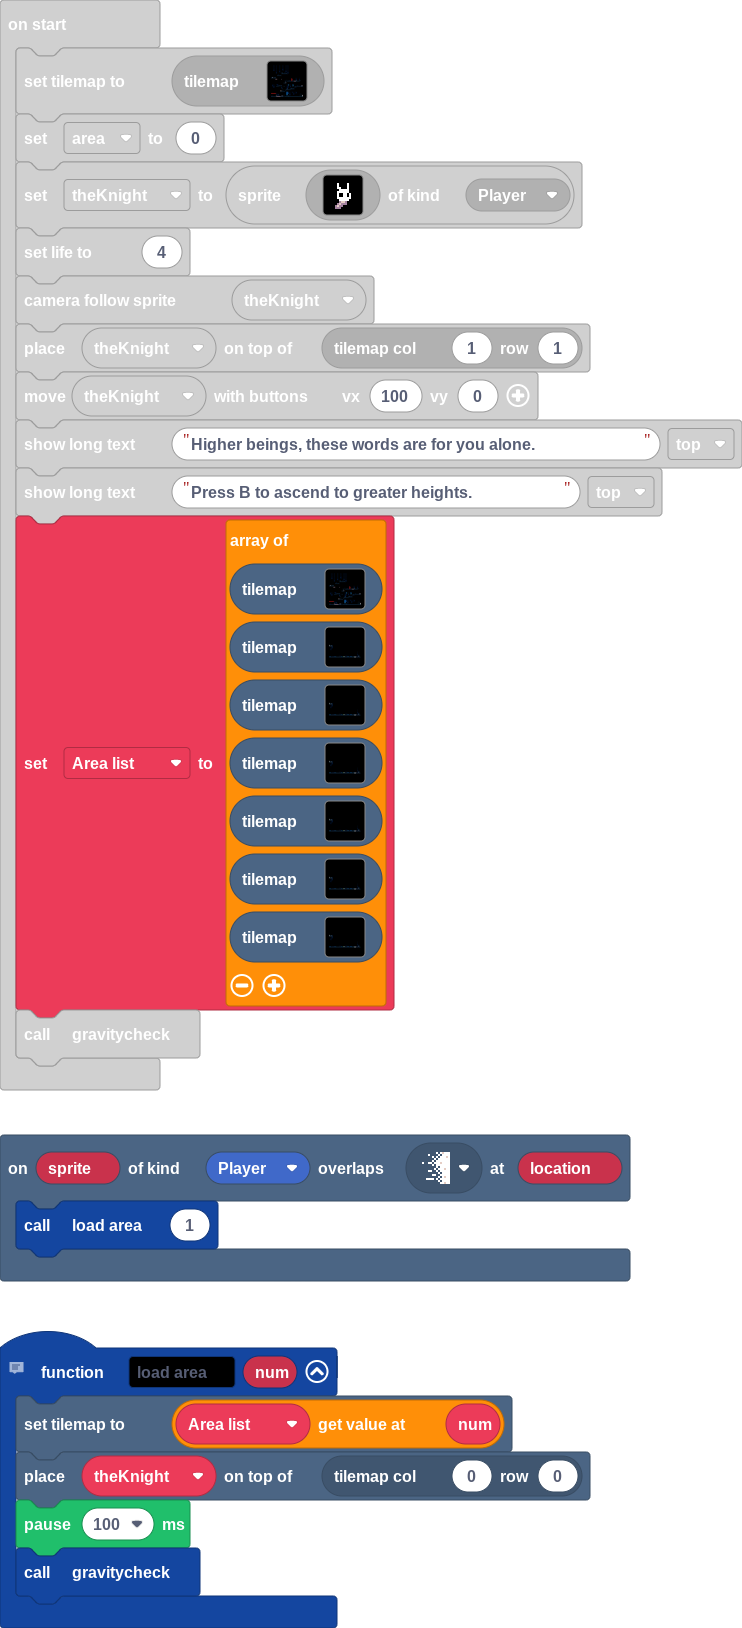
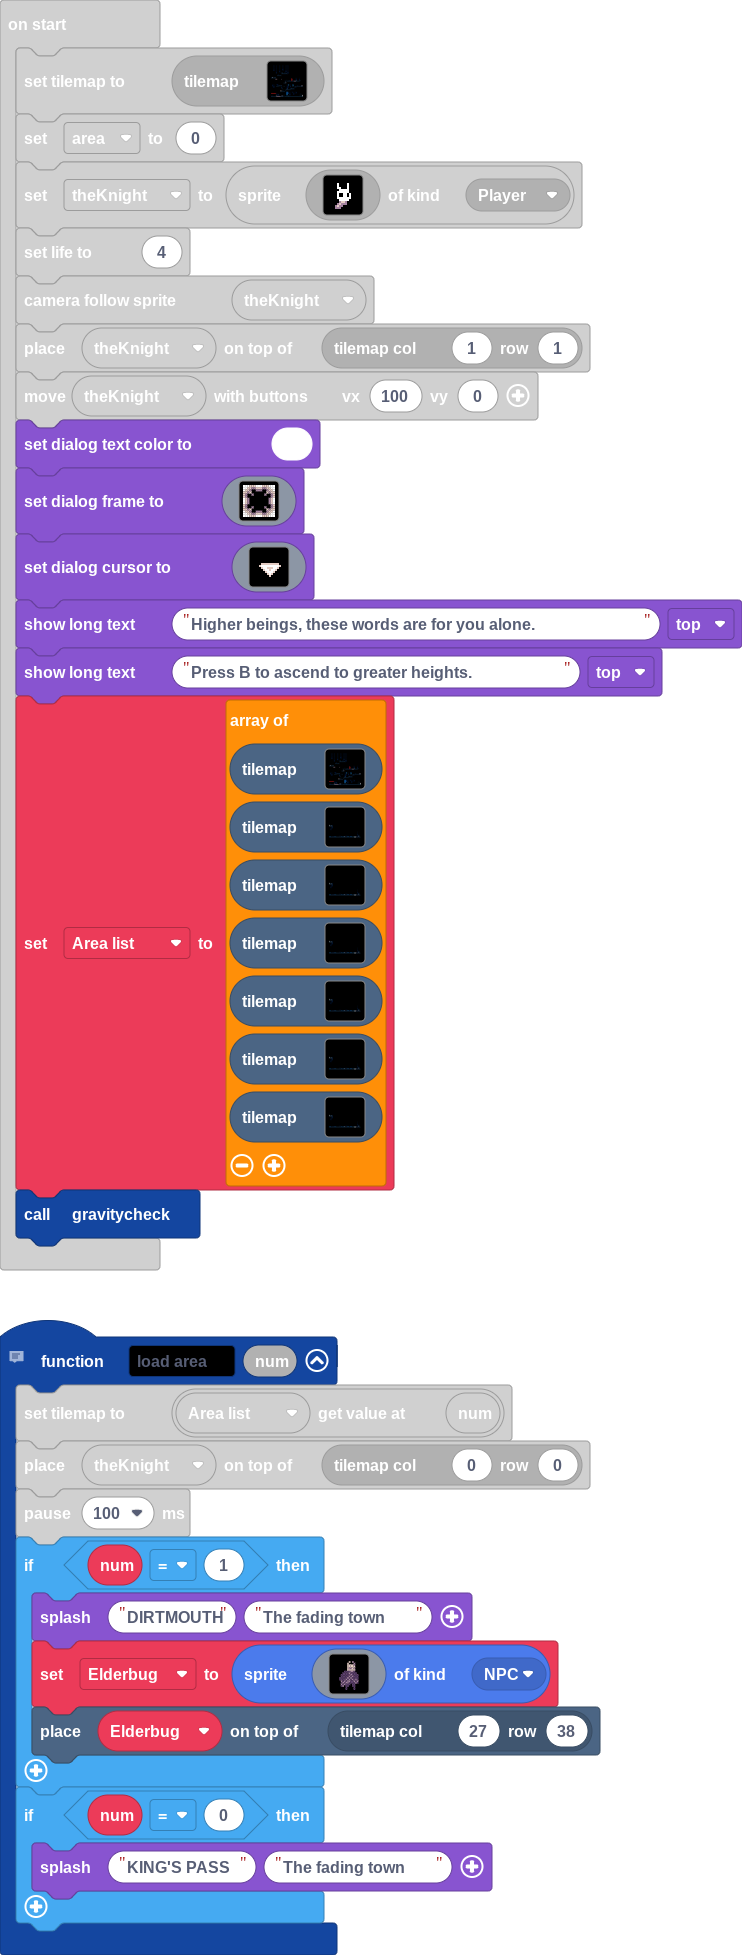
added elderbug and cool new textbox graphic

diff --git a/tilemap.g.ts b/tilemap.g.ts
@@ -187,49 +187,6 @@ namespace myTiles {
 . . . . . . . . . . . . . . . . 
 . . . . . . . . . . . . . . . . 
 `, [myTiles.transparency16], TileScale.Sixteen);
-            case "dirtmouth1":
[1 lines of base64/hex data omitted]
-............................................................
-............................................................
-............................................................
-............................................................
-............................................................
-............................................................
-............................................................
-............................................................
-............................................................
-............................................................
-............................................................
-............................................................
-............................................................
-............................................................
-............................................................
-............................................................
-............................................................
-............................................................
-............................................................
-2222222....................................................2
-2222222..................................................222
-22222...................................................2222
-222....................................................22222
-2.....................................................222222
-2.....................................................222222
-.....................................................2222222
-.....................................................2222222
-.....................................................2222222
-.....................................................2222222
-......................................................222222
-......................................................222222
-......................................................222222
-.......................................................22222
-.......................................................22222
-.......................................................22222
-........................................................2222
-........................................................2222
-.........................................................222
-..........................................................22
-222222222222222222222222222222222222222222222222..2222222222
-`, [myTiles.transparency16,myTiles.tile4,myTiles.tile5,myTiles.tile6,myTiles.tile9,myTiles.tile10,myTiles.tile11,myTiles.tile12,myTiles.tile15,myTiles.tile18,myTiles.tile22,myTiles.tile24,myTiles.tile28,myTiles.tile29,myTiles.tile30,myTiles.tile31,myTiles.tile32,myTiles.tile33,myTiles.tile34,myTiles.tile8,myTiles.tile17,myTiles.tile14,myTiles.tile23,myTiles.tile35,myTiles.tile36], TileScale.Sixteen);
             case "level5":
             case "level5":return tiles.createTilemap(hex`1000100000000000000000000000000000000000000000000000000000000000000000000000000000000000000000000000000000000000000000000000000000000000000000000000000000000000000000000000000000000000000000000000000000000000000000000000000000000000000000000000000000000000000000000000000000000000000000000000000000000000000000000000000000000000000000000000000000000000000000000000000000000000000000000000000000000000000000000000000000000000000000000000000000000000000000000000000000000000000000000000000000000000000000000000000000000000`, img`
 . . . . . . . . . . . . . . . . 
@@ -344,6 +301,49 @@ namespace myTiles {
 . . . . . . . . . . . . . . . . 
 . . . . . . . . . . . . . . . . 
 `, [myTiles.transparency16], TileScale.Sixteen);
+            case "dirtmouth1":
[1 lines of base64/hex data omitted]
+............................................................
+............................................................
+............................................................
+............................................................
+............................................................
+............................................................
+............................................................
+............................................................
+............................................................
+............................................................
+............................................................
+............................................................
+............................................................
+............................................................
+............................................................
+............................................................
+............................................................
+............................................................
+............................................................
+2222222....................................................2
+2222222..................................................222
+22222...................................................2222
+222....................................................22222
+2.....................................................222222
+2.....................................................222222
+.....................................................2222222
+.....................................................2222222
+.....................................................2222222
+.....................................................2222222
+......................................................222222
+......................................................222222
+......................................................222222
+.......................................................22222
+.......................................................22222
+.......................................................22222
+........................................................2222
+........................................................2222
+.........................................................222
+..........................................................22
+222222222222222222222222222222222222222222222222..2222222222
+`, [myTiles.transparency16,myTiles.tile4,myTiles.tile5,myTiles.tile6,myTiles.tile9,myTiles.tile10,myTiles.tile11,myTiles.tile12,myTiles.tile15,myTiles.tile18,myTiles.tile22,myTiles.tile24,myTiles.tile29,myTiles.tile30,myTiles.tile31,myTiles.tile32,myTiles.tile33,myTiles.tile34,myTiles.tile8,myTiles.tile17,myTiles.tile14,myTiles.tile23,myTiles.tile35,myTiles.tile36], TileScale.Sixteen);
         }
         return null;
     })

diff --git a/main.ts b/main.ts
@@ -1,5 +1,6 @@
 namespace SpriteKind {
     export const player_attack = SpriteKind.create()
+    export const NPC = SpriteKind.create()
 }
 scene.onOverlapTile(SpriteKind.Player, assets.tile`light2`, function (sprite, location) {
     load_area(1)
@@ -29,6 +30,14 @@ function load_area (num: number) {
     tiles.setCurrentTilemap(Area_list[num])
     tiles.placeOnTile(theKnight, tiles.getTileLocation(0, 0))
     pause(100)
+    if (num == 1) {
+        game.splash("DIRTMOUTH", "The fading town")
+        Elderbug = sprites.create(assets.image`elderbug`, SpriteKind.NPC)
+        tiles.placeOnTile(Elderbug, tiles.getTileLocation(27, 38))
+    }
+    if (num == 0) {
+        game.splash("KING'S PASS")
+    }
 }
 // Nail slash.
 controller.A.onEvent(ControllerButtonEvent.Pressed, function () {
@@ -185,6 +194,7 @@ let Crawlid: Sprite = null
 let FX: Sprite = null
 let vengefulspirit: Sprite = null
 let player_NailSlash: Sprite = null
+let Elderbug: Sprite = null
 let nail_direction = 0
 let Area_list: tiles.TileMapData[] = []
 let theKnight: Sprite = null
@@ -195,6 +205,25 @@ info.setLife(4)
 scene.cameraFollowSprite(theKnight)
 tiles.placeOnTile(theKnight, tiles.getTileLocation(1, 1))
 controller.moveSprite(theKnight, 100, 0)
+game.setDialogTextColor(1)
+game.setDialogFrame(img`
+    1 1 1 d d d 1 1 1 d d d 1 1 1 
+    1 1 d d b b d d d b b d d 1 1 
+    1 d d b . . b b b . . b d d 1 
+    d d b d . . . . . . . d b d d 
+    d b . . b . . . . . b . . b d 
+    d b . . . . . . . . . . . b d 
+    1 d b . . . . . . . . . b d 1 
+    1 d b . . . . . . . . . b d 1 
+    1 d b . . . . . . . . . b d 1 
+    d b . . . . . . . . . . . b d 
+    d b . . b . . . . . b . . b d 
+    d d b d . . . . . . . d b d d 
+    1 d d b . . b b b . . b d d 1 
+    1 1 d d b b d d d b b d d 1 1 
+    1 1 1 d d d 1 1 1 d d d 1 1 1 
+    `)
+game.setDialogCursor(assets.image`cursor`)
 game.showLongText("Higher beings, these words are for you alone.", DialogLayout.Top)
 game.showLongText("Press B to ascend to greater heights.", DialogLayout.Top)
 Area_list = [

diff --git a/images.g.ts b/images.g.ts
@@ -209,6 +209,67 @@ d d d d d c c c c c c c . . . .
 . . . . . . . . . . . . . . . . 
 . . . . . . . . . . . . . . . . 
 `;
+            case "image12":
+            case "infection_glob_large":return img`
+. . . . . . . . . . . . . . . . 
+. . . . . . . . . . . . . . . . 
+. . . . . . . . . . . . . . . . 
+. . . . . . . . . . . . . . . . 
+. . . . . . . . . . . . . . . . 
+. . . . . 4 4 4 4 4 4 . . . . . 
+. . . . 4 5 5 5 5 5 4 4 . . . . 
+. . . . 4 5 5 5 4 5 5 4 . . . . 
+. . . . 4 5 5 5 5 5 5 4 . . . . 
+. . . . 4 5 4 4 5 5 5 4 . . . . 
+. . . . 4 5 4 4 5 5 4 4 . . . . 
+. . . . 4 5 5 5 5 5 5 4 . . . . 
+. . . . . 4 4 4 4 4 4 . . . . . 
+. . . . . . . . . . . . . . . . 
+. . . . . . . . . . . . . . . . 
+. . . . . . . . . . . . . . . . 
+`;
+            case "image13":
+            case "elderbug":return img`
+................
+................
+........d.b.....
+.......d...b....
+.......ddddb....
+.......ddddd....
+.......dbbdb....
+.......ddddd....
+.....ccccbbc....
+....ccccbcccc...
+...ccccccbcccc..
+...cccccbcbccc..
+..cccccbcbcccc..
+..ccccbcbcbcbc..
+...bcbcbbccbcb..
+...cbcbbccccbc..
+...bcbccc.cc....
+...cb.cc..cc....
+......c....c....
+......c....c....
+`;
+            case "image14":
+            case "cursor":return img`
+. . . . . . . . . . . . . . . . 
+. . . . . . . . . . . . . . . . 
+. . . . . . . . . . . . . . . . 
+. . . . . . . . . . . . . . . . 
+. . . . . . . . . . . . . . . . 
+. . . . . . . . . . . . . . . . 
+. . . . d d d d d d d d d . . . 
+. . . d 1 1 1 1 1 1 1 1 1 d . . 
+. . . . d 1 1 d d d 1 1 d . . . 
+. . . . . d 1 1 d 1 1 d . . . . 
+. . . . . . d 1 1 1 d . . . . . 
+. . . . . . . d 1 d . . . . . . 
+. . . . . . . . d . . . . . . . 
+. . . . . . . . . . . . . . . . 
+. . . . . . . . . . . . . . . . 
+. . . . . . . . . . . . . . . . 
+`;
         }
         return null;
     })
